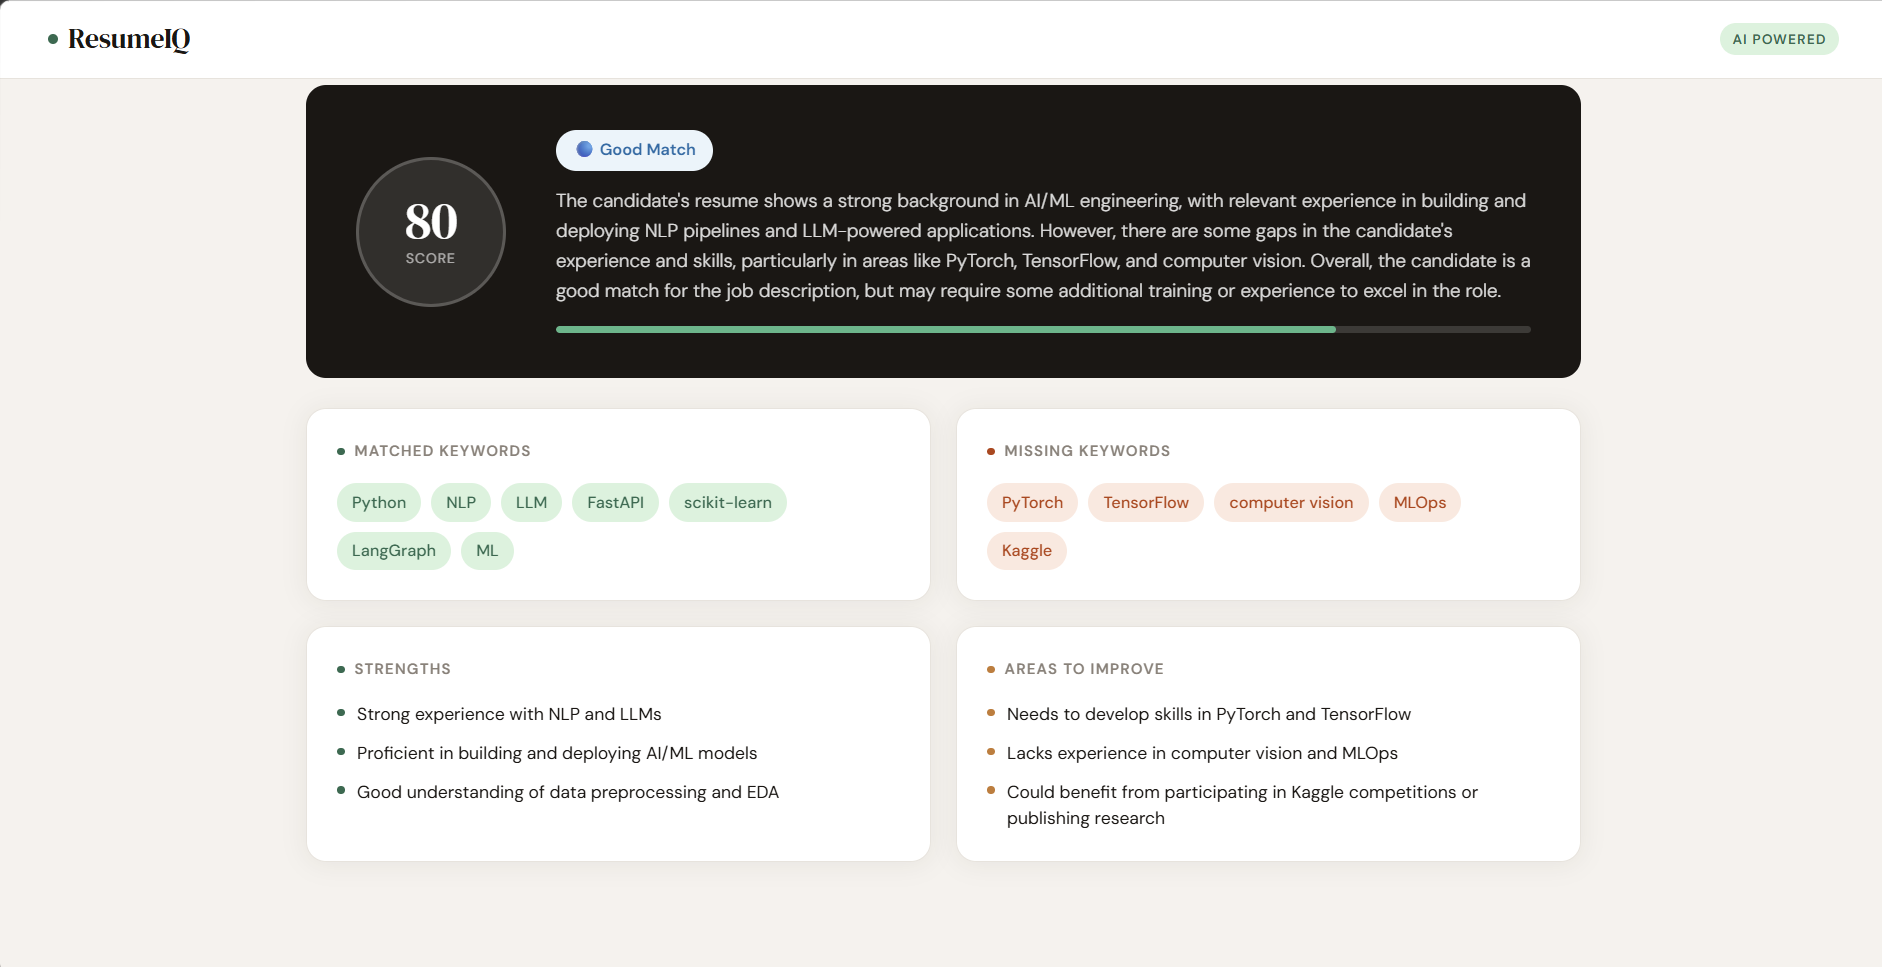
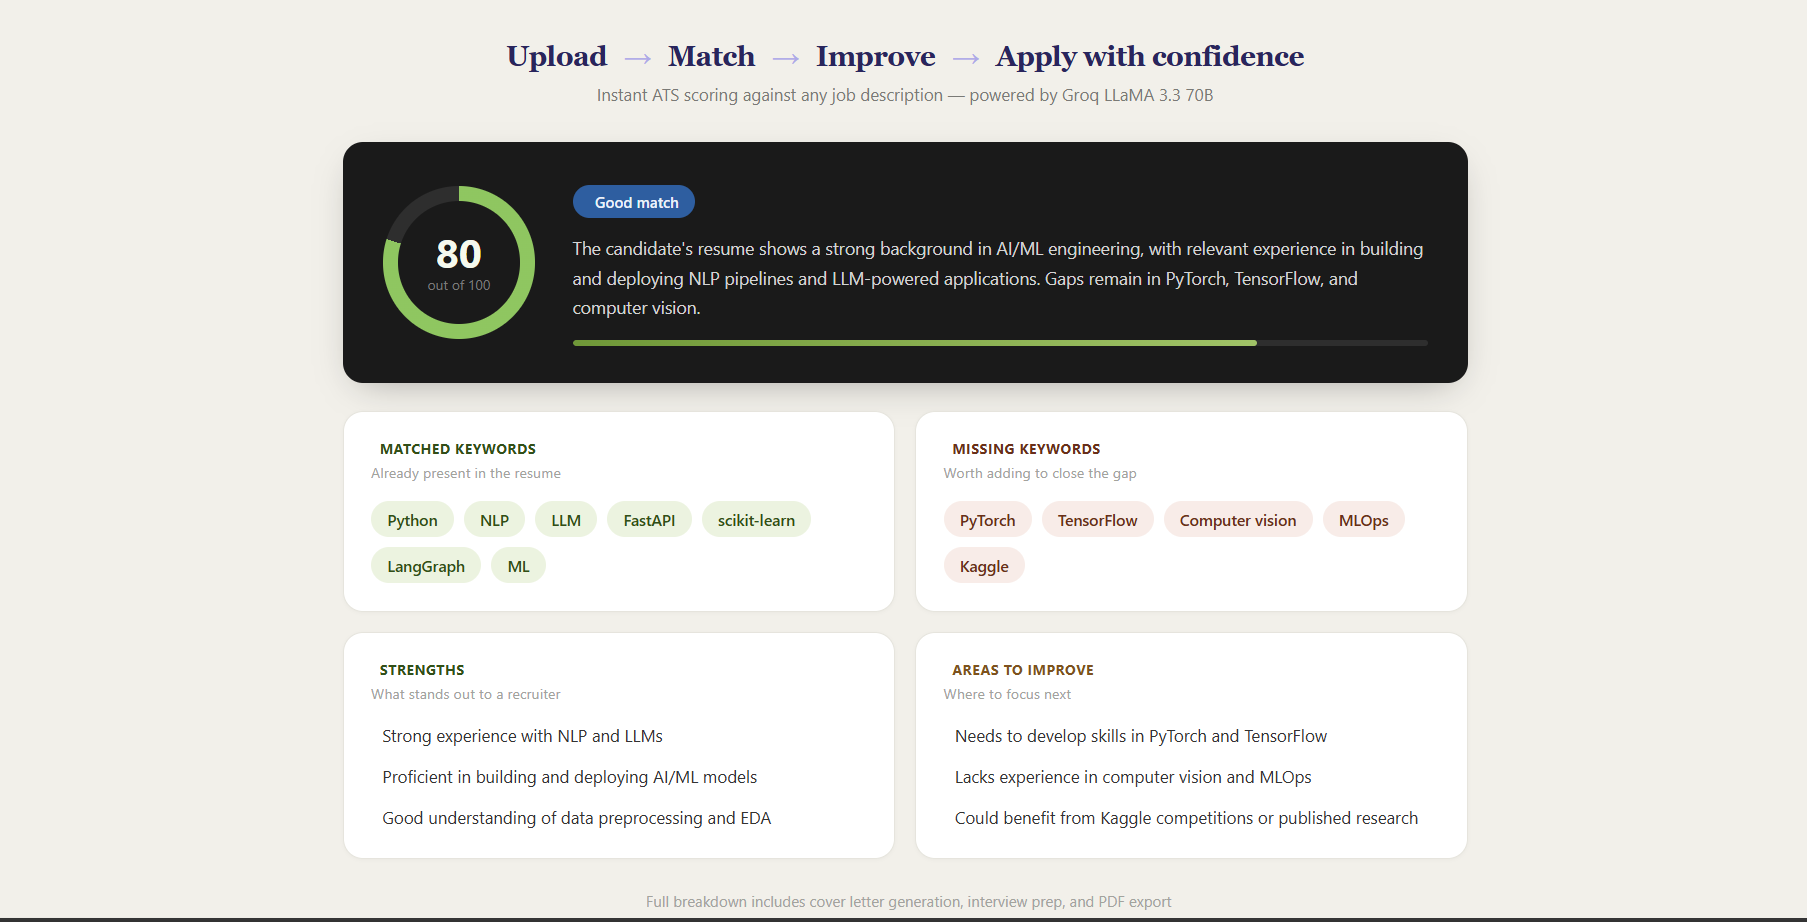
Update demo screenshot and caption with polished ATS score UI

diff --git a/README.md b/README.md
@@ -23,7 +23,7 @@
 
 ![ResumeIQ Results View](./assets/Resume_Screener_Demo.png)
 
-*Upload your resume, paste a job description, and get an instant AI-powered match score with keyword breakdown, strengths, and improvement suggestions.*
+*Upload → Match → Improve → Apply with confidence. Paste any job description and get an instant ATS score, keyword breakdown, and clear next steps to close the gap — no guessing what the numbers mean.*
 
 ---
 